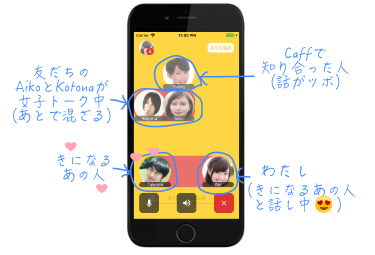
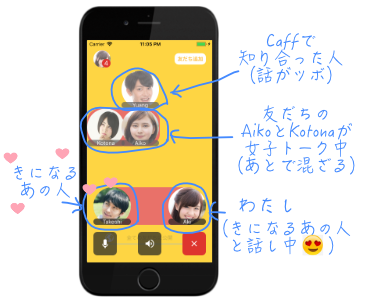
Update Letter Position

diff --git a/index.html b/index.html
@@ -49,7 +49,7 @@ layout: default
       <amp-img alt="Caff"
     src="/assets/images/overall_1x.png"
     width="375"
-    height="255"
+    height="304"
     layout="responsive"
     srcset="/assets/images/overall_3x.png 1125w,/assets/images/overall_2x.png 750w,
               /assets/images/overall_1x.png 375w">
